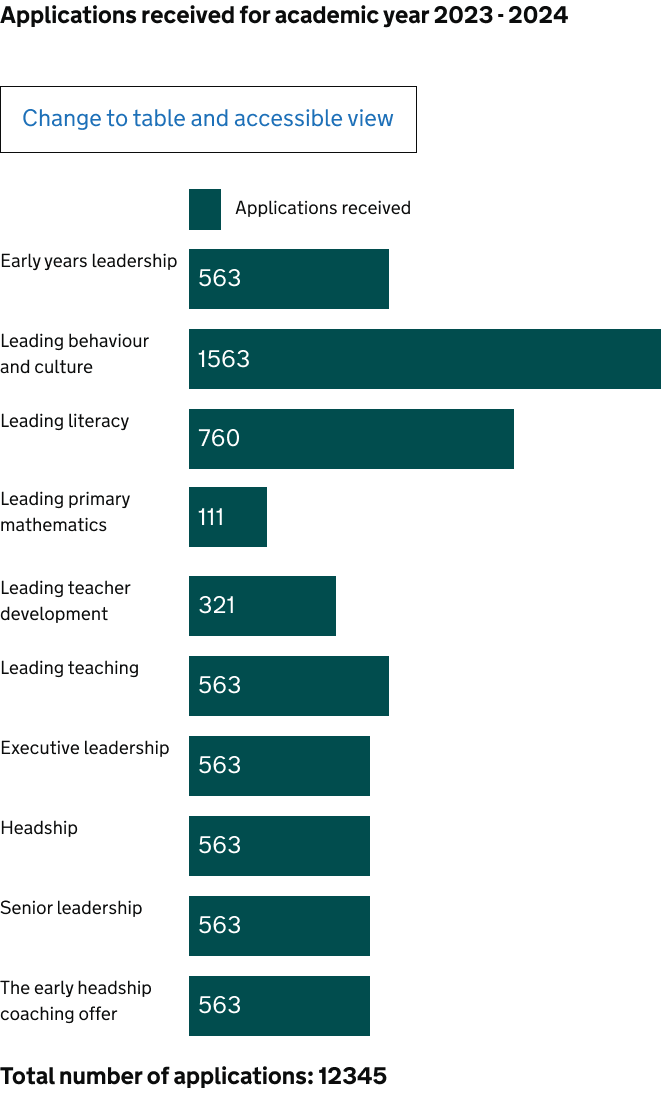
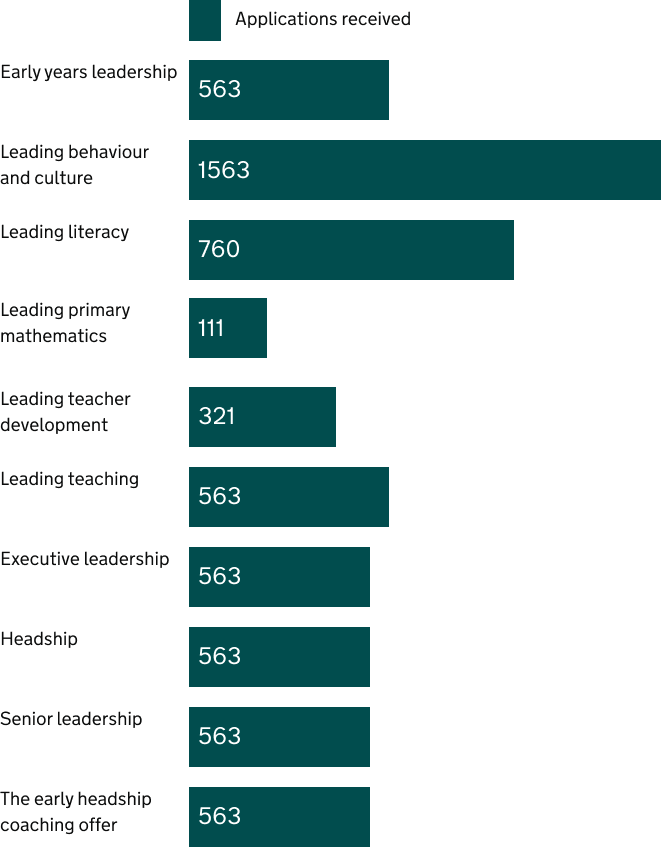
Image updated

diff --git a/app/views/admin-v3/dashboard.html b/app/views/admin-v3/dashboard.html
@@ -46,13 +46,23 @@
         </form>
       </div>
 
-      <p class="govuk-body"><a href="dashboard-2.html"> Change to table and accessible view</a></p>
+      <h1 class="govuk-heading-m">Applications recicved for academic year 2023 - 2024</h1> 
+      <button class="govuk-body-s mc-toggle-button"> <a href="dashboard-2.html"> Change to table and accessible view</a></button>
+
+
+
 
 
       <img src="/public/images/new-dash-bar-charts.png" alt="."> 
 
-
+      <br>
+      <br>
       
+
+      <h1 class="govuk-heading-m">Total number of applications: 12345</h1> 
+
+
+
       
 
 

diff --git a/app/views/admin-v3/dashboard-2.html b/app/views/admin-v3/dashboard-2.html
@@ -46,11 +46,20 @@
         </form>
       </div>
 
-      <p class="govuk-body"><a href="dashboard.html"> Change to chart view</a></p>
+      <h1 class="govuk-heading-m">Applications recicved for academic year 2023 - 2024</h1> 
+      <button class="govuk-body-s mc-toggle-button"> <a href="dashboard.html"> Change to chart view</a></button>
+
+
+      <p class="govuk-body"><a href="">
+      </a></p>
 
 
 
       <img src="/public/images/new-dash-tables.png" alt="."> 
+
+
+
+
 
 
       
